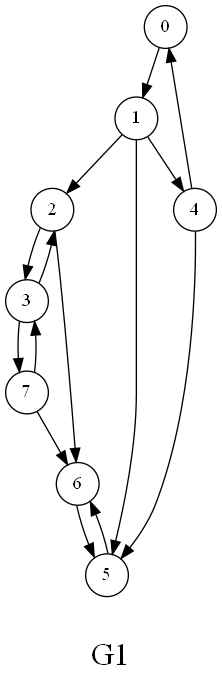
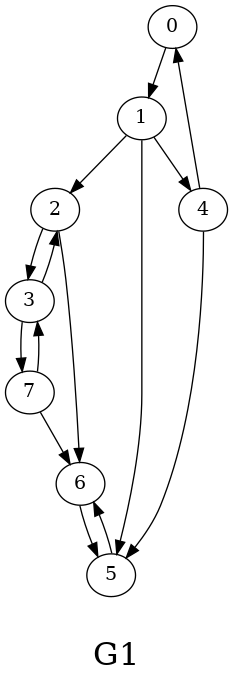
Red Inferida por netinf

diff --git a/Code/Social Networks/snap-sn.py b/Code/Social Networks/snap-sn.py
@@ -1,4 +1,7 @@
+from sys import stdin
+import networkx as nx
 import snap
+import matplotlib.pyplot as plt
 
 def intro():
     # create a graph
@@ -10,11 +13,9 @@ def intro():
     G1.AddEdge(5,1)
     G1.AddEdge(5,32)
     print("G1: Nodes %d, Edges %d" % (G1.GetNodes(), G1.GetEdges()))
-
     # create a directed random graph on 100 nodes and 1k edges
     G2 = snap.GenRndGnm(snap.TNGraph, 100, 1000)
     print("G2: Nodes %d, Edges %d" % (G2.GetNodes(), G2.GetEdges()))
-
     # traverse the nodes
     for NI in G2.Nodes():
         print("node id %d with out-degree %d and in-degree %d" % (
@@ -22,7 +23,6 @@ def intro():
     # traverse the edges
     for EI in G2.Edges():
         print("edge (%d, %d)" % (EI.GetSrcNId(), EI.GetDstNId()))
-
     # traverse the edges by nodes
     for NI in G2.Nodes():
         for Id in NI.GetOutEdges():
@@ -30,30 +30,25 @@ def intro():
 
 def prueba1():
     G1 = snap.LoadEdgeList(snap.TNGraph,"graph.txt",0,1, ',')
-
     #Graph Information
     snap.PrintInfo(G1, "QA Stats", "qa-info.txt", False)
-
     #SCC
     print("Strongly Cnnected Components")
     Components = G1.GetSccs()
     for CnCom in Components:
         print("Size of component: %d" % CnCom.Len())
-
     #Degree Distribution
     print("Degree Distribution")
     DegToCntV = snap.TIntPrV()
     snap.GetDegCnt(G1, DegToCntV)
     for item in DegToCntV:
         print("{0} nodes with degree {1}".format(item.GetVal2(), item.GetVal1()))
-
     #Node Centrality (Page Rank)
     print("PageRank of the Graph")
     PRankH = snap.TIntFltH()
     snap.GetPageRank(G1, PRankH)
     for item in PRankH:
         print(item, PRankH[item])
-
     #Print Graph
     labels = {}
     for NI in G1.Nodes():
@@ -62,6 +57,39 @@ def prueba1():
 
 def movielens_network():
     N1 = snap.TNEANet.New() #directed network
+    #Usar TBPGraph para grafos bipartitos
+
+def netinf_example_network():
+    G = snap.TNGraph.New()
+    G2 = nx.DiGraph(directed=True)
+    #lectura de nodos
+    line = stdin.readline().strip()
+    while len(line) != 0:
+        x = line.split(",")
+        u = int(x[0])
+        G.AddNode(u)
+        G2.add_node(u)
+        line = stdin.readline().strip()
+    #lectura de arcos
+    line = stdin.readline().strip()
+    while len(line) != 0:
+        x = line.split(",")
+        u, v = int(x[0]), int(x[1])
+        G.AddEdge(u,v)
+        G2.add_edge(u, v)
+        line = stdin.readline().strip()
+    #Number of nodes and edges in G
+    print("G: Nodes %d, Edges %d" % (G.GetNodes(), G.GetEdges()))
+    #Plot graph
+    labels = {}
+    for NI in G.Nodes():
+        labels[NI.GetId()] = str(NI.GetId())
+    snap.DrawGViz(G, snap.gvlDot, "G.png", "Example Network Netinf", labels)
+    nx.draw_circular(G2, with_labels=True, arrows=True)
+    plt.savefig("Directed_Graph.png", format="PNG")
+    return
 
 #intro()
-prueba1()
+#prueba1()
+#movielens_network()
+netinf_example_network()
